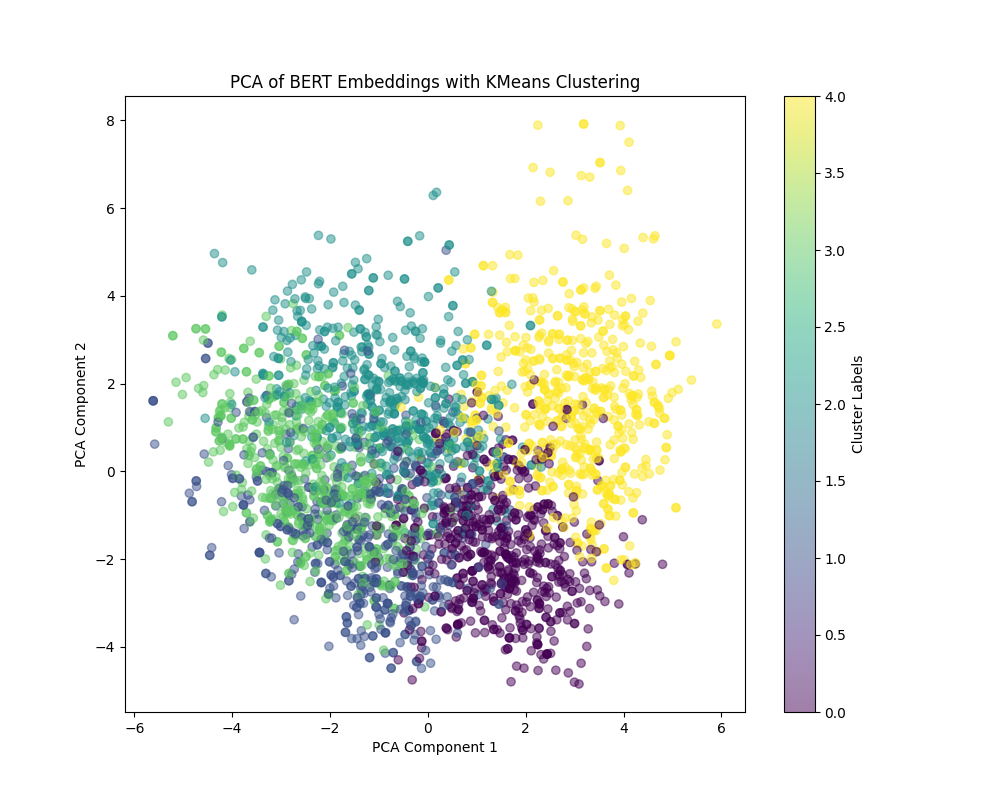
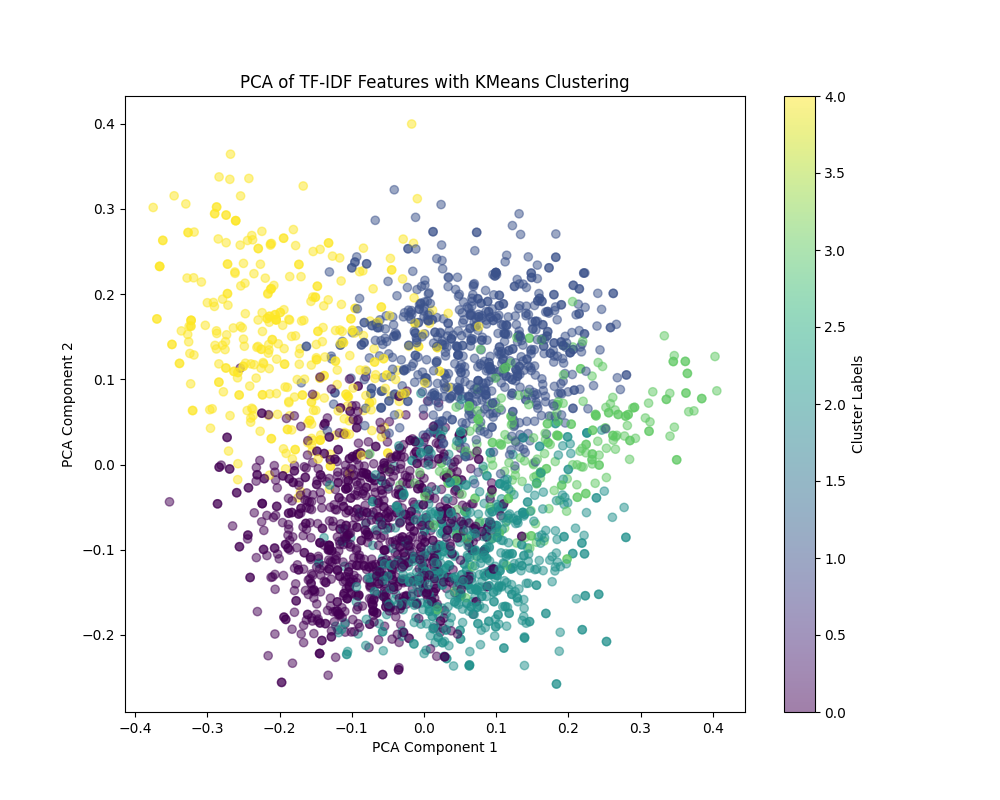
Fourth commit

diff --git a/1.py b/1.py
@@ -1,0 +1,101 @@
+import os
+import random
+import numpy as np
+import pandas as pd
+import matplotlib.pyplot as plt
+from sklearn.feature_extraction.text import TfidfVectorizer
+from sklearn.cluster import KMeans
+from sklearn.metrics import precision_score, recall_score, f1_score
+from sklearn.decomposition import PCA
+from tqdm import tqdm
+
+# Load and select dataset
+dataset_choice = input("Select dataset (imdb, app, cancer, bbc, other): ").strip().lower()
+
+if dataset_choice == 'bbc':
+    # Load summaries from 'dataset/bbc' directory
+    summaries, labels = [], []
+    for root, dirs, files in os.walk('dataset/bbc'):
+        for filename in files:
+            if filename.endswith('.txt'):
+                file_path = os.path.join(root, filename)
+                if os.path.isfile(file_path):
+                    with open(file_path, 'r', encoding='latin1') as file:
+                        text = file.read()
+                        category = os.path.basename(root)
+                        summaries.append(text)
+                        labels.append(category)
+    if len(summaries) > 3000:
+        selected_indices = random.sample(range(len(summaries)), 3000)
+        summaries = [summaries[i] for i in selected_indices]
+        labels = [labels[i] for i in selected_indices]
+    n_clusters = 5
+elif dataset_choice == 'imdb':
+    filepath = 'dataset/imdb/imdb.csv'
+    df = pd.read_csv(filepath, encoding='latin1').dropna()
+    df = df.sample(3000, random_state=42) if len(df) > 3000 else df
+    text_column, label_column = df.columns[0], df.columns[1]
+    df[text_column] = df[text_column].astype(str).str.replace(r'[^\x00-\x7F]+', '', regex=True)
+    summaries, labels = df[text_column].tolist(), df[label_column].tolist()
+    n_clusters = 2
+else:
+    raise ValueError("Invalid dataset choice. Please select from 'imdb', 'app', 'cancer', or 'bbc'.")
+
+# Print sample reviews and sentiments
+print("Sample reviews (1-5):")
+for i, review in enumerate(summaries[:5]):
+    print(f"{i + 1}: {review[:75]}...")
+print("Sample labels (1-5):", labels[:5])
+
+# Extract TF-IDF features with progress bar
+class ProgressVectorizer(TfidfVectorizer):
+    def fit_transform(self, raw_documents, y=None):
+        self.num_docs = len(raw_documents)
+        return super().fit_transform(tqdm(raw_documents, desc="Extracting TF-IDF features", total=self.num_docs))
+
+vectorizer = ProgressVectorizer(max_features=1000)  # Limit to 1000 features for simplicity
+X_tfidf = vectorizer.fit_transform(summaries)
+
+# Perform KMeans clustering
+kmeans = KMeans(n_clusters=n_clusters, random_state=42)
+cluster_labels = kmeans.fit_predict(X_tfidf)
+
+# Map clusters to labels (majority voting)
+label_mapping = {}
+for cluster in tqdm(np.unique(cluster_labels), desc="Matching clusters to labels"):
+    mask = (cluster_labels == cluster)
+    true_label = pd.Series(np.array(labels)[mask]).mode()[0]  # Find most common label in the cluster
+    label_mapping[cluster] = true_label
+predicted_labels = [label_mapping[cluster] for cluster in cluster_labels]
+
+# Evaluate the model
+precision = precision_score(labels, predicted_labels, average='macro')
+recall = recall_score(labels, predicted_labels, average='macro')
+f1 = f1_score(labels, predicted_labels, average='macro')
+
+print(f"Precision: {precision}")
+print(f"Recall: {recall}")
+print(f"F1 Score: {f1}")
+
+# Create output directory
+output_dir = os.path.join('results', 'KMeans', dataset_choice)
+os.makedirs(output_dir, exist_ok=True)
+
+# Apply PCA to reduce embeddings to 2D and plot
+pca = PCA(n_components=2)
+X_pca = pca.fit_transform(X_tfidf.toarray())
+
+plt.figure(figsize=(10, 8))
+plt.scatter(X_pca[:, 0], X_pca[:, 1], c=cluster_labels, cmap='viridis', alpha=0.5)
+plt.title('PCA of TF-IDF Features with KMeans Clustering')
+plt.xlabel('PCA Component 1')
+plt.ylabel('PCA Component 2')
+plt.colorbar(label='Cluster Labels')
+
+# Save PCA plot to PNG
+pca_png_path = os.path.join(output_dir, 'pca_plot.png')
+plt.savefig(pca_png_path)
+plt.close()
+
+# Print paths of saved files
+print(f"PCA plot saved to: {pca_png_path}")

diff --git a/GMM.py b/GMM.py
@@ -3,43 +3,52 @@ import numpy as np
 import pandas as pd
 import matplotlib.pyplot as plt
 from sklearn.decomposition import PCA
-from DataProcessing import load_and_select_dataset, extract_bert_embeddings, match_clusters_to_labels, evaluate_model
-from sklearn.mixture import GaussianMixture
+from DataProcessing import load_and_select_dataset, extract_bert_embeddings, evaluate_model
+from sklearn.model_selection import train_test_split
+from sklearn.linear_model import LogisticRegression
+from sklearn.preprocessing import LabelEncoder, StandardScaler
 
 # Load and select dataset
 summaries, labels, n_clusters, dataset_name = load_and_select_dataset()
 
+# Encode labels as integers for visualization purposes
+label_encoder = LabelEncoder()
+labels_encoded = label_encoder.fit_transform(labels)
+
 # Extract BERT embeddings for the clean text
 X_bert = extract_bert_embeddings(summaries)
 
-# Perform Gaussian Mixture Model (GMM) clustering on text embeddings
-def perform_gmm_clustering(X_bert, n_clusters):
-    gmm_model = GaussianMixture(n_components=n_clusters, random_state=42)
-    gmm_model.fit(X_bert)
-    return gmm_model.predict(X_bert)
+# Scale the features
+scaler = StandardScaler()
+X_bert_scaled = scaler.fit_transform(X_bert)
 
-cluster_labels = perform_gmm_clustering(X_bert, n_clusters)
+# Split the dataset into training and testing sets
+X_train_bert, X_test_bert, labels_train, labels_test = train_test_split(X_bert_scaled, labels_encoded, test_size=0.2, random_state=42)
 
-# Map each cluster label to the most common true label (majority voting)
-label_mapping = match_clusters_to_labels(cluster_labels, labels)
-predicted_labels = [label_mapping[cluster] for cluster in cluster_labels]
+# Train Logistic Regression classifier
+logreg_model = LogisticRegression(max_iter=2000, random_state=42, solver='lbfgs')
+logreg_model.fit(X_train_bert, labels_train)
+
+# Predict labels for the test set
+predicted_labels = logreg_model.predict(X_test_bert)
 
 # Create output directory
-output_dir = os.path.join('results', 'GMM', dataset_name)
+output_dir = os.path.join('results', 'LogisticRegression', dataset_name)
 os.makedirs(output_dir, exist_ok=True)
 
 # Evaluate the model
-evaluate_model(labels, predicted_labels)
-# Apply PCA to reduce embeddings to 2D and plot
+evaluate_model(labels_test, predicted_labels)
+
+# Apply PCA to reduce embeddings to 2D and plot (using training set embeddings for visualization)
 pca = PCA(n_components=2)
-X_pca = pca.fit_transform(X_bert)
+X_pca = pca.fit_transform(X_train_bert)
 
 plt.figure(figsize=(10, 8))
-plt.scatter(X_pca[:, 0], X_pca[:, 1], c=cluster_labels, cmap='viridis', alpha=0.5)
-plt.title('PCA of BERT Embeddings with GMM Clustering')
+plt.scatter(X_pca[:, 0], X_pca[:, 1], c=labels_train, cmap='viridis', alpha=0.5)
+plt.title('PCA of BERT Embeddings with Logistic Regression Classification')
 plt.xlabel('PCA Component 1')
 plt.ylabel('PCA Component 2')
-plt.colorbar(label='Cluster Labels')
+plt.colorbar(label='True Labels')
 
 # Save PCA plot to PNG
 pca_png_path = os.path.join(output_dir, 'pca_plot.png')

diff --git a/DataProcessing.py b/DataProcessing.py
@@ -31,6 +31,9 @@ def load_and_select_dataset():
         filepath = 'dataset/app/apple-twitter-sentiment-texts.csv'
         summaries, labels = load_summaries_from_csv(filepath)
         n_clusters = 3
+    elif dataset_choice == 'books':
+        summaries, labels = load_summaries('dataset/books')
+        n_clusters = 7
     else:
         raise ValueError("Invalid dataset choice. Please select from 'imdb', 'app', 'cancer', or 'bbc'.")
 
@@ -63,8 +66,12 @@ def load_summaries_from_csv(filepath):
     df = df.dropna()
     if len(df) > 3000:
         df = df.sample(3000, random_state=42)  # Randomly select 3000 samples if dataset is large
-    text_column = df.columns[0]  # First column contains text
-    label_column = df.columns[1]  # Second column contains labels
+        if 'cancer' in filepath:
+            text_column = df.columns[2]  # First column contains text
+            label_column = df.columns[1]  # Second column contains labels
+        elif 'imdb' in filepath:
+            text_column = df.columns[0]
+            label_column = df.columns[1]
     
     # Convert entire text column to strings to avoid AttributeError
     df[text_column] = df[text_column].astype(str)
